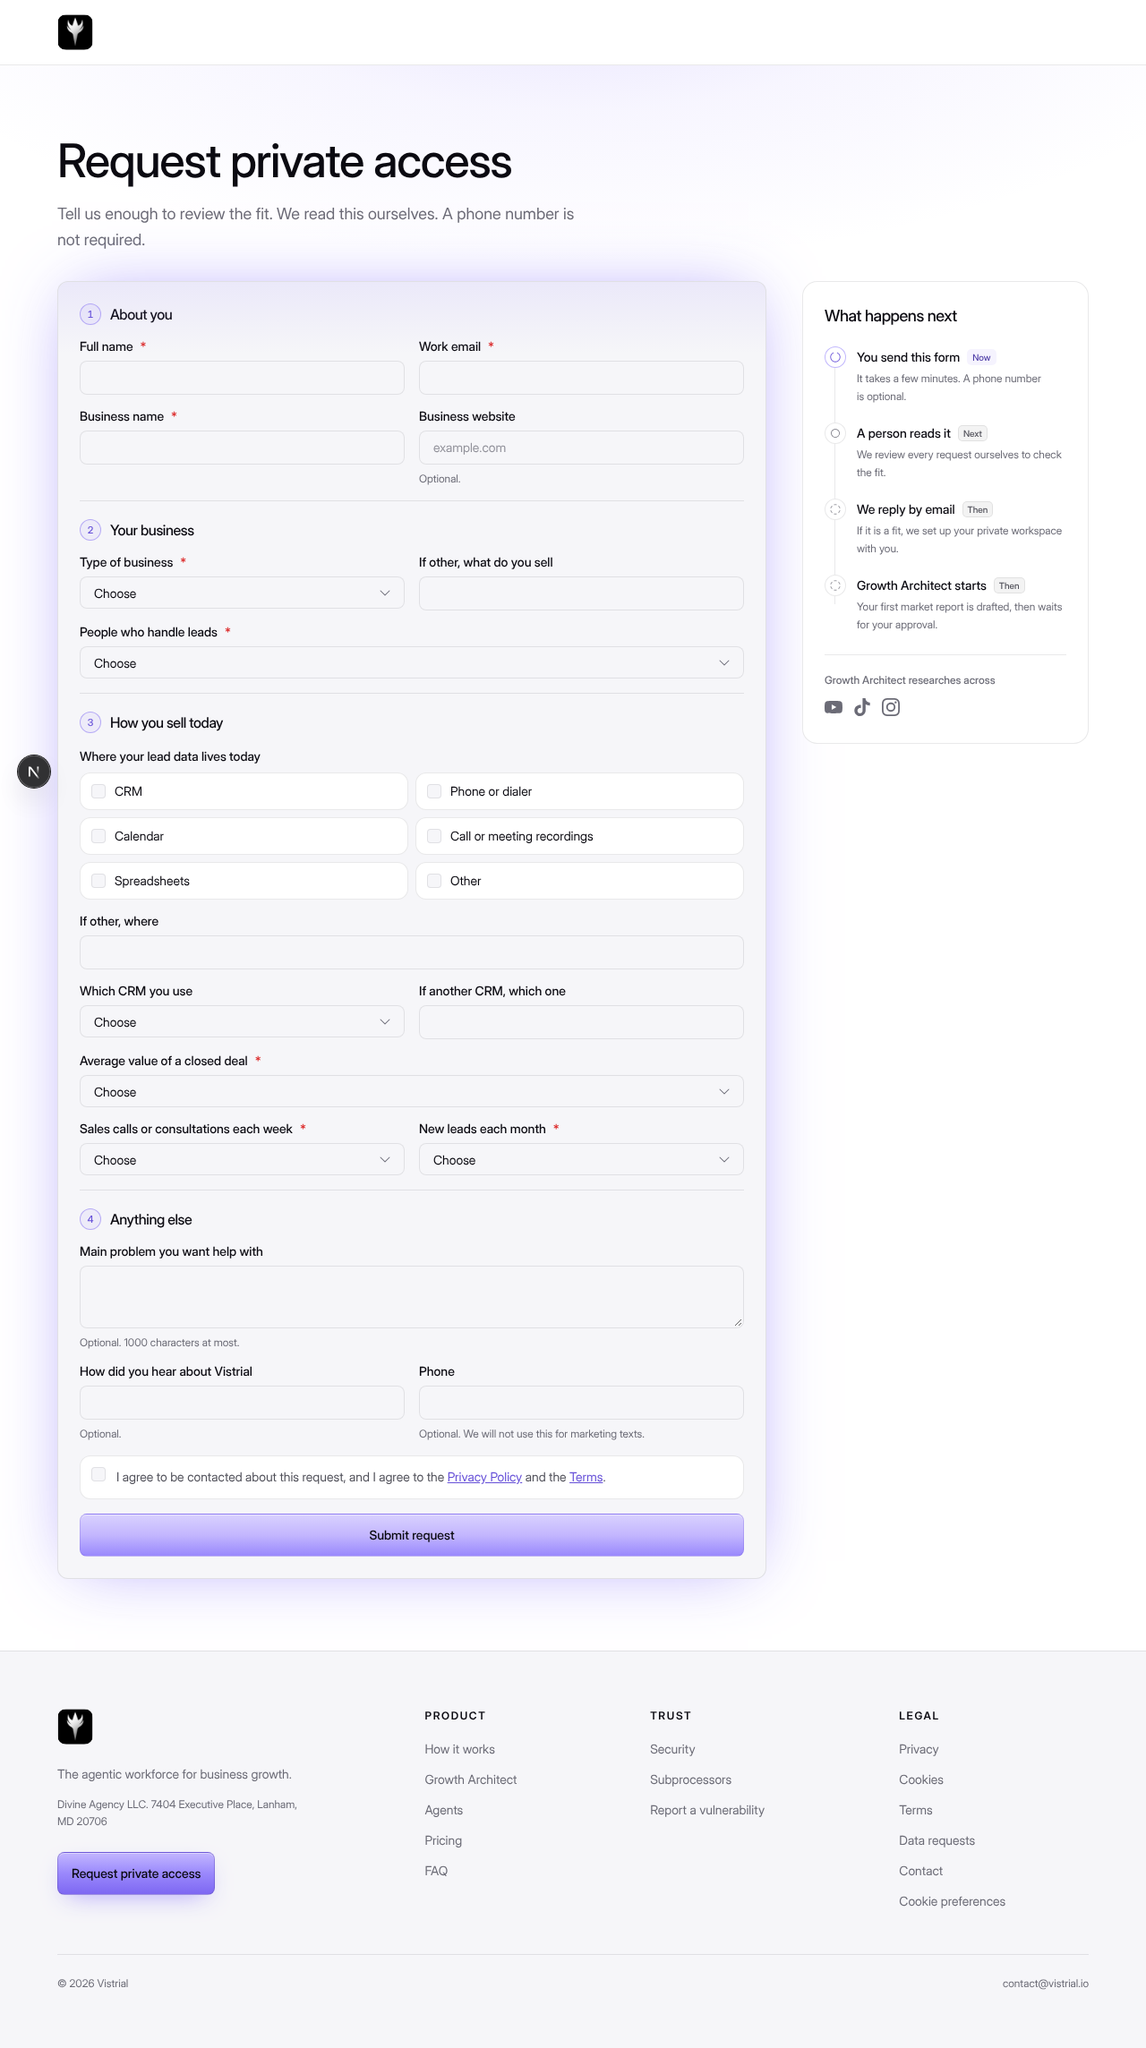
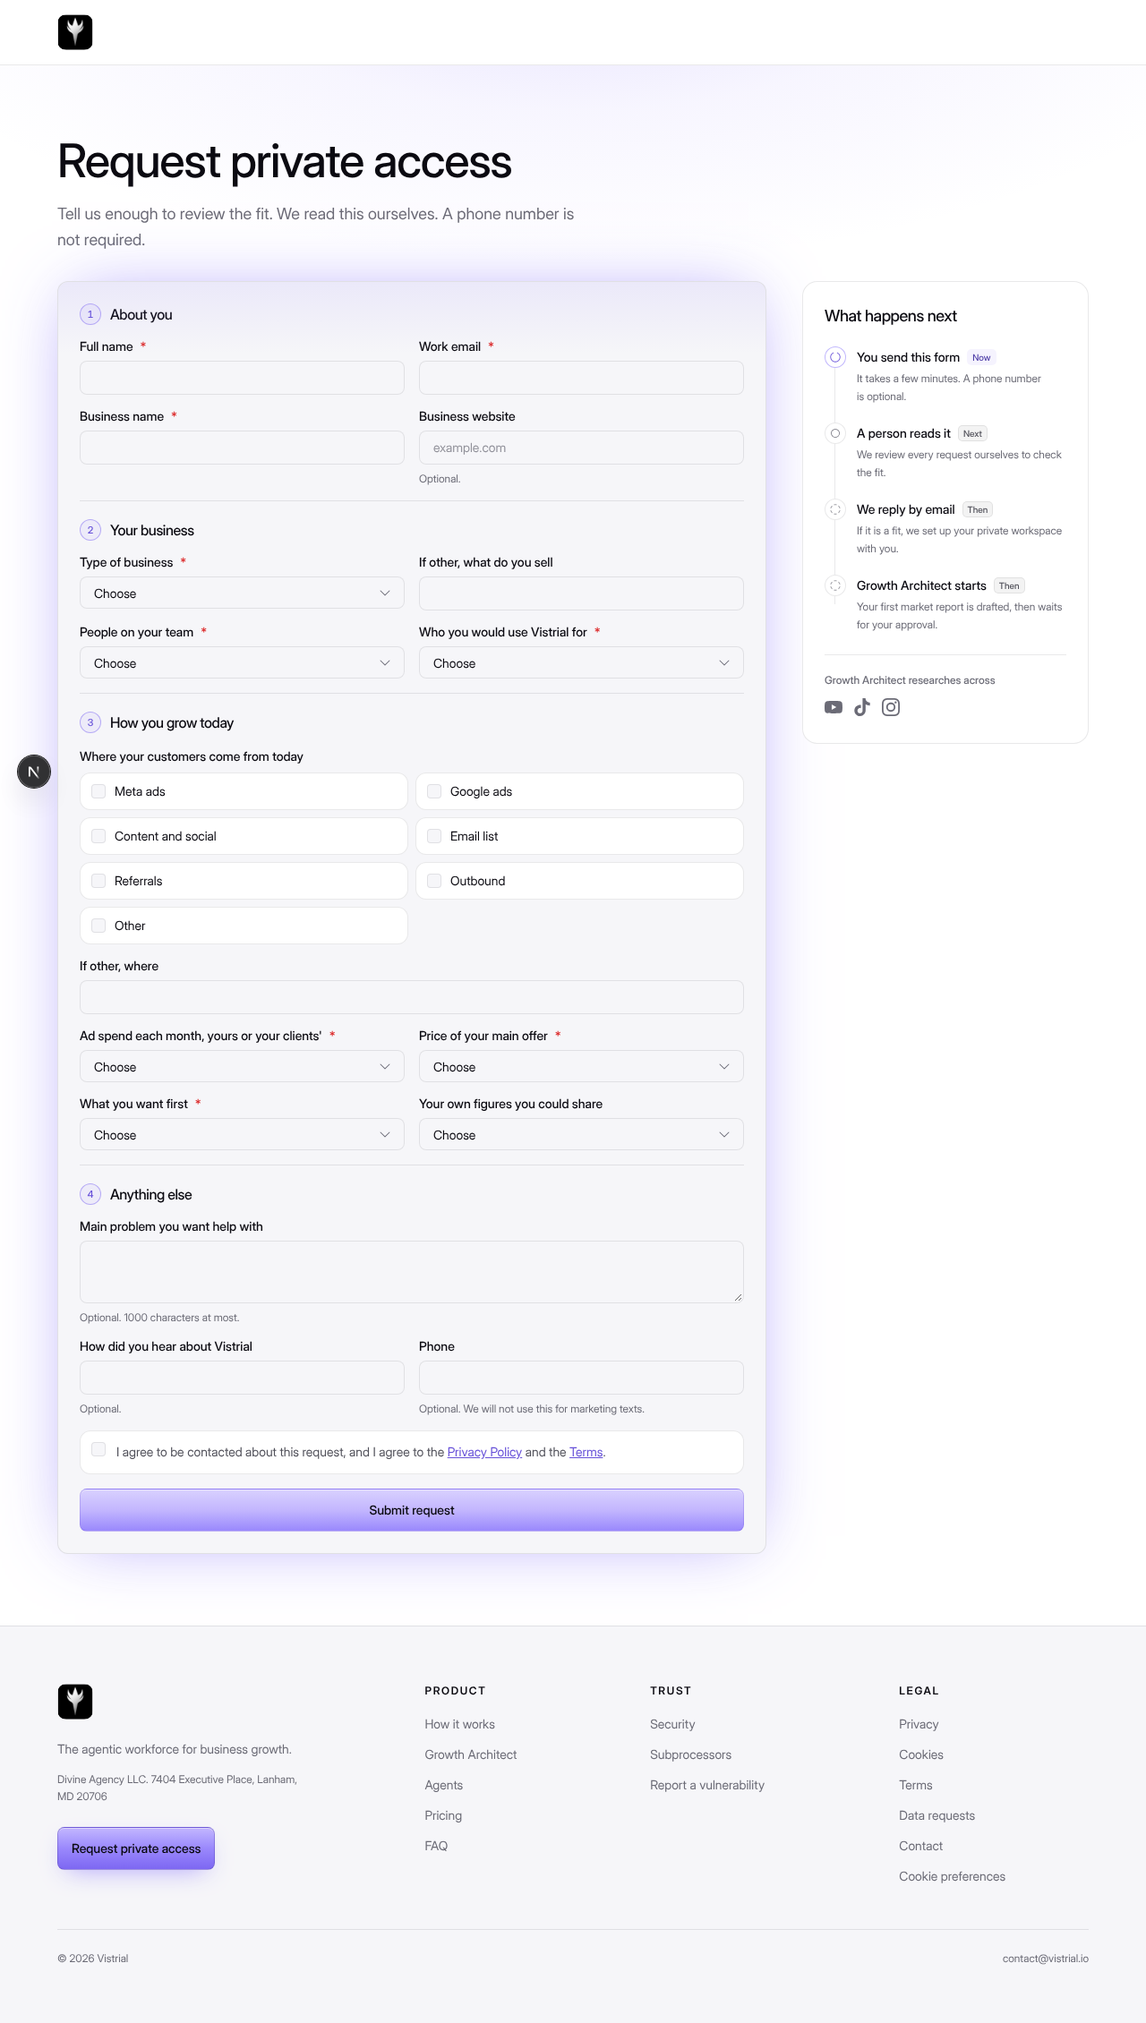
Request form: questions for agencies, consultants, coaches and info sellers
The form still asked the earlier product's questions (who handles leads, which
CRM, where lead data lives, sales calls per week, new leads per month). It now
asks who the team would use Vistrial for, where customers come from, monthly
ad spend, the price of the main offer, what they want first, and which of
their own figures they could share.

How the form submits is unchanged: answers are still stored as labeled rows.
The screenshots drop the dark theme, because the public site is white only.

Claude-Session: https://claude.ai/code/session_01BiDhVPaiBjYScjpMtVjuf9

diff --git a/src/lib/access-requests/options.ts b/src/lib/access-requests/options.ts
@@ -15,42 +15,55 @@ export const TEAM_SIZES = [
   { value: "16_plus", label: "More than 15" },
 ] as const;
 
-export const LEAD_SOURCES = [
-  { value: "crm", label: "CRM" },
-  { value: "phone", label: "Phone or dialer" },
-  { value: "calendar", label: "Calendar" },
-  { value: "recordings", label: "Call or meeting recordings" },
-  { value: "spreadsheets", label: "Spreadsheets" },
+/** How many client businesses the team does this work for. An agency answers with its client count. */
+export const CLIENT_COUNTS = [
+  { value: "own", label: "Only my own business" },
+  { value: "1_5", label: "1 to 5 clients" },
+  { value: "6_20", label: "6 to 20 clients" },
+  { value: "21_plus", label: "More than 20 clients" },
+] as const;
+
+export const CHANNELS = [
+  { value: "meta_ads", label: "Meta ads" },
+  { value: "google_ads", label: "Google ads" },
+  { value: "content", label: "Content and social" },
+  { value: "email", label: "Email list" },
+  { value: "referrals", label: "Referrals" },
+  { value: "outbound", label: "Outbound" },
   { value: "other", label: "Other" },
 ] as const;
 
-export const CRMS = [
-  { value: "gohighlevel", label: "GoHighLevel" },
-  { value: "hubspot", label: "HubSpot (coming)" },
-  { value: "salesforce", label: "Salesforce (coming)" },
-  { value: "other", label: "Other" },
-  { value: "none", label: "None" },
+export const AD_SPEND = [
+  { value: "none", label: "None yet" },
+  { value: "under_1000", label: "Under $1,000" },
+  { value: "1000_5000", label: "$1,000 to $5,000" },
+  { value: "5000_20000", label: "$5,000 to $20,000" },
+  { value: "above_20000", label: "Above $20,000" },
 ] as const;
 
-export const DEAL_VALUES = [
+export const OFFER_PRICES = [
   { value: "under_1000", label: "Under $1,000" },
   { value: "1000_2500", label: "$1,000 to $2,500" },
   { value: "2500_10000", label: "$2,500 to $10,000" },
   { value: "above_10000", label: "Above $10,000" },
 ] as const;
 
-export const CALLS_PER_WEEK = [
-  { value: "under_5", label: "Fewer than 5" },
-  { value: "5_20", label: "5 to 20" },
-  { value: "21_50", label: "21 to 50" },
-  { value: "above_50", label: "More than 50" },
+/** One per Growth Architect skill that is available today, in the reader's words. */
+export const FIRST_WANTS = [
+  { value: "market_research", label: "Research on my market and competitors" },
+  { value: "offer_analysis", label: "My offer set beside competitors'" },
+  { value: "growth_diagnosis", label: "Where my growth stalls" },
+  { value: "ad_creative", label: "Ad copy and creative to test" },
+  { value: "page_teardown", label: "A teardown of my landing page" },
+  { value: "not_sure", label: "Not sure yet" },
 ] as const;
 
-export const LEADS_PER_MONTH = [
-  { value: "under_20", label: "Fewer than 20" },
-  { value: "20_100", label: "20 to 100" },
-  { value: "101_400", label: "101 to 400" },
-  { value: "above_400", label: "More than 400" },
+/** Figures the business could share so a change can be measured. Nothing is connected from this form. */
+export const FIGURES = [
+  { value: "meta", label: "A Meta ad account" },
+  { value: "file", label: "A results spreadsheet" },
+  { value: "both", label: "Both" },
+  { value: "none", label: "Neither yet" },
 ] as const;
 
 export const CUSTOM_TEAM_SIZES = [
@@ -73,20 +86,17 @@ export const CAMPAIGN_KEYS = [
 
 export type CampaignKey = (typeof CAMPAIGN_KEYS)[number];
 
-const BUSINESS = new Set<string>(BUSINESS_TYPES.map((row) => row.value));
-const TEAMS = new Set<string>([...TEAM_SIZES.map((row) => row.value), ...CUSTOM_TEAM_SIZES.map((row) => row.value)].filter(Boolean));
-const SOURCES = new Set<string>(LEAD_SOURCES.map((row) => row.value));
-const CRM = new Set<string>(CRMS.map((row) => row.value));
-const DEALS = new Set<string>(DEAL_VALUES.map((row) => row.value));
-const CALLS = new Set<string>(CALLS_PER_WEEK.map((row) => row.value));
-const LEADS = new Set<string>(LEADS_PER_MONTH.map((row) => row.value));
+const ALLOWED = {
+  business: new Set<string>(BUSINESS_TYPES.map((row) => row.value)),
+  team: new Set<string>([...TEAM_SIZES.map((row) => row.value), ...CUSTOM_TEAM_SIZES.map((row) => row.value)].filter(Boolean)),
+  clients: new Set<string>(CLIENT_COUNTS.map((row) => row.value)),
+  channel: new Set<string>(CHANNELS.map((row) => row.value)),
+  spend: new Set<string>(AD_SPEND.map((row) => row.value)),
+  price: new Set<string>(OFFER_PRICES.map((row) => row.value)),
+  want: new Set<string>(FIRST_WANTS.map((row) => row.value)),
+  figures: new Set<string>(FIGURES.map((row) => row.value)),
+} as const;
 
-export function isAllowed(value: string, kind: "business" | "team" | "source" | "crm" | "deal" | "calls" | "leads"): boolean {
-  if (kind === "business") return BUSINESS.has(value);
-  if (kind === "team") return TEAMS.has(value);
-  if (kind === "source") return SOURCES.has(value);
-  if (kind === "crm") return CRM.has(value);
-  if (kind === "deal") return DEALS.has(value);
-  if (kind === "calls") return CALLS.has(value);
-  return LEADS.has(value);
+export function isAllowed(value: string, kind: keyof typeof ALLOWED): boolean {
+  return ALLOWED[kind].has(value);
 }

diff --git a/src/lib/access-requests/validate.ts b/src/lib/access-requests/validate.ts
@@ -12,13 +12,13 @@ export type AccessSubmission = {
   businessType: string | null;
   businessTypeOther: string | null;
   teamSize: string | null;
-  leadSources: string[];
-  leadSourcesOther: string | null;
-  crm: string | null;
-  crmOther: string | null;
-  dealValue: string | null;
-  callsPerWeek: string | null;
-  leadsPerMonth: string | null;
+  clientCount: string | null;
+  channels: string[];
+  channelsOther: string | null;
+  adSpend: string | null;
+  offerPrice: string | null;
+  firstWant: string | null;
+  figures: string | null;
   problem: string | null;
   heardAbout: string | null;
   phone: string | null;
@@ -68,13 +68,14 @@ export function parseAccessForm(form: FormData, kind: RequestKind): ParseResult 
 
   const businessType = one(form, "business_type");
   const teamSize = one(form, "team_size");
-  const dealValue = one(form, "deal_value");
-  const callsPerWeek = one(form, "calls_per_week");
-  const leadsPerMonth = one(form, "leads_per_month");
-  const crm = one(form, "crm");
+  const clientCount = one(form, "client_count");
+  const adSpend = one(form, "ad_spend");
+  const offerPrice = one(form, "offer_price");
+  const firstWant = one(form, "first_want");
+  const figures = one(form, "figures");
   const problem = cleanText(one(form, "problem"), 1200);
   const need = cleanText(one(form, "need"), 1200);
-  const sources = form.getAll("lead_sources").map((value) => String(value)).filter((value) => isAllowed(value, "source"));
+  const channels = form.getAll("channels").map((value) => String(value)).filter((value) => isAllowed(value, "channel"));
 
   if (problem.length > 1000) errors.problem = FORMS.errors.long;
   if (need.length > 1000) errors.need = FORMS.errors.long;
@@ -85,11 +86,11 @@ export function parseAccessForm(form: FormData, kind: RequestKind): ParseResult 
       errors.business_type_other = FORMS.errors.required;
     }
     if (!isAllowed(teamSize, "team")) errors.team_size = FORMS.errors.required;
-    if (!isAllowed(dealValue, "deal")) errors.deal_value = FORMS.errors.required;
-    if (!isAllowed(callsPerWeek, "calls")) errors.calls_per_week = FORMS.errors.required;
-    if (!isAllowed(leadsPerMonth, "leads")) errors.leads_per_month = FORMS.errors.required;
-    if (crm && !isAllowed(crm, "crm")) errors.crm = FORMS.errors.required;
-    if (crm === "other" && !cleanText(one(form, "crm_other"), 120)) errors.crm_other = FORMS.errors.required;
+    if (!isAllowed(clientCount, "clients")) errors.client_count = FORMS.errors.required;
+    if (!isAllowed(adSpend, "spend")) errors.ad_spend = FORMS.errors.required;
+    if (!isAllowed(offerPrice, "price")) errors.offer_price = FORMS.errors.required;
+    if (!isAllowed(firstWant, "want")) errors.first_want = FORMS.errors.required;
+    if (figures && !isAllowed(figures, "figures")) errors.figures = FORMS.errors.required;
   } else if (!need) {
     errors.need = FORMS.errors.required;
   }
@@ -125,13 +126,13 @@ export function parseAccessForm(form: FormData, kind: RequestKind): ParseResult 
       businessType: kind === "private_access" ? businessType : null,
       businessTypeOther: cleanText(one(form, "business_type_other"), 120) || null,
       teamSize: teamSize || null,
-      leadSources: sources.slice(0, 12),
-      leadSourcesOther: cleanText(one(form, "lead_sources_other"), 120) || null,
-      crm: crm || null,
-      crmOther: cleanText(one(form, "crm_other"), 120) || null,
-      dealValue: dealValue || null,
-      callsPerWeek: callsPerWeek || null,
-      leadsPerMonth: leadsPerMonth || null,
+      clientCount: clientCount || null,
+      channels: channels.slice(0, 12),
+      channelsOther: cleanText(one(form, "channels_other"), 120) || null,
+      adSpend: adSpend || null,
+      offerPrice: offerPrice || null,
+      firstWant: firstWant || null,
+      figures: figures || null,
       problem: problem ? problem.slice(0, 1000) : null,
       heardAbout: cleanText(one(form, "heard_about"), 160) || null,
       phone: phone || null,
@@ -153,13 +154,13 @@ export function submissionPayload(value: AccessSubmission): Record<string, unkno
     businessType: value.businessType,
     businessTypeOther: value.businessTypeOther,
     teamSize: value.teamSize,
-    leadSources: value.leadSources,
-    leadSourcesOther: value.leadSourcesOther,
-    crm: value.crm,
-    crmOther: value.crmOther,
-    dealValue: value.dealValue,
-    callsPerWeek: value.callsPerWeek,
-    leadsPerMonth: value.leadsPerMonth,
+    clientCount: value.clientCount,
+    channels: value.channels,
+    channelsOther: value.channelsOther,
+    adSpend: value.adSpend,
+    offerPrice: value.offerPrice,
+    firstWant: value.firstWant,
+    figures: value.figures,
     problem: value.problem,
     heardAbout: value.heardAbout,
     phone: value.phone,

diff --git a/src/components/marketing/access-form.tsx b/src/components/marketing/access-form.tsx
@@ -19,12 +19,13 @@ import { Field } from "@/components/ui/field";
 import { Input } from "@/components/ui/input";
 import {
   BUSINESS_TYPES,
-  CALLS_PER_WEEK,
-  CRMS,
+  AD_SPEND,
+  CHANNELS,
+  CLIENT_COUNTS,
   CUSTOM_TEAM_SIZES,
-  DEAL_VALUES,
-  LEAD_SOURCES,
-  LEADS_PER_MONTH,
+  FIGURES,
+  FIRST_WANTS,
+  OFFER_PRICES,
   TEAM_SIZES,
 } from "@/lib/access-requests/options";
 import { trackMarketingEvent } from "@/components/marketing/track";
@@ -182,35 +183,34 @@ export function AccessRequestForm({ kind }: { kind: "private_access" | "custom" 
                   <FieldMessage message={error?.business_type_other} />
                 </Field>
               </FieldPair>
-              <Choice name="team_size" label="People who handle leads" options={TEAM_SIZES} required error={error?.team_size} />
+              <FieldPair>
+                <Choice name="team_size" label="People on your team" options={TEAM_SIZES} required error={error?.team_size} />
+                <Choice name="client_count" label="Who you would use Vistrial for" options={CLIENT_COUNTS} required error={error?.client_count} />
+              </FieldPair>
             </FormSection>
 
             <FormSection step={3} title={FORMS.sections.selling}>
               <fieldset>
-                <legend className="text-sm font-medium text-card-foreground">Where your lead data lives today</legend>
+                <legend className="text-sm font-medium text-card-foreground">Where your customers come from today</legend>
                 <div className="mt-2 grid gap-2 sm:grid-cols-2">
-                  {LEAD_SOURCES.map((source) => (
-                    <label key={source.value} className={publicChipClass}>
-                      <input type="checkbox" name="lead_sources" value={source.value} className={cn(checkboxClass, publicCheckClass)} />
-                      {source.label}
+                  {CHANNELS.map((channel) => (
+                    <label key={channel.value} className={publicChipClass}>
+                      <input type="checkbox" name="channels" value={channel.value} className={cn(checkboxClass, publicCheckClass)} />
+                      {channel.label}
                     </label>
                   ))}
                 </div>
               </fieldset>
-              <Field label="If other, where" name="lead_sources_other" htmlFor="lead_sources_other">
-                <Input className={publicFieldClass} id="lead_sources_other" name="lead_sources_other" type="text" maxLength={120} />
+              <Field label="If other, where" name="channels_other" htmlFor="channels_other">
+                <Input className={publicFieldClass} id="channels_other" name="channels_other" type="text" maxLength={120} />
               </Field>
               <FieldPair>
-                <Choice name="crm" label="Which CRM you use" options={CRMS} error={error?.crm} />
-                <Field label="If another CRM, which one" name="crm_other" htmlFor="crm_other">
-                  <Input className={publicFieldClass} id="crm_other" name="crm_other" type="text" maxLength={120} aria-invalid={error?.crm_other ? true : undefined} />
-                  <FieldMessage message={error?.crm_other} />
-                </Field>
+                <Choice name="ad_spend" label="Ad spend each month, yours or your clients'" options={AD_SPEND} required error={error?.ad_spend} />
+                <Choice name="offer_price" label="Price of your main offer" options={OFFER_PRICES} required error={error?.offer_price} />
               </FieldPair>
-              <Choice name="deal_value" label="Average value of a closed deal" options={DEAL_VALUES} required error={error?.deal_value} />
               <FieldPair>
-                <Choice name="calls_per_week" label="Sales calls or consultations each week" options={CALLS_PER_WEEK} required error={error?.calls_per_week} />
-                <Choice name="leads_per_month" label="New leads each month" options={LEADS_PER_MONTH} required error={error?.leads_per_month} />
+                <Choice name="first_want" label="What you want first" options={FIRST_WANTS} required error={error?.first_want} />
+                <Choice name="figures" label="Your own figures you could share" options={FIGURES} error={error?.figures} />
               </FieldPair>
             </FormSection>
 

diff --git a/src/lib/access-requests/validate.test.ts b/src/lib/access-requests/validate.test.ts
@@ -1,0 +1,65 @@
+import { describe, expect, it } from "vitest";
+
+import * as options from "@/lib/access-requests/options";
+import { submissionFields } from "@/lib/access-requests/summary";
+import { parseAccessForm } from "@/lib/access-requests/validate";
+
+function form(entries: Record<string, string | string[]>) {
+  const data = new FormData();
+  for (const [key, value] of Object.entries(entries)) {
+    for (const item of Array.isArray(value) ? value : [value]) data.append(key, item);
+  }
+  return data;
+}
+
+const COMPLETE = {
+  full_name: "Sam Rivera",
+  email: "sam@northlight.example",
+  business_name: "Northlight Growth",
+  consent: "yes",
+  business_type: "agency",
+  team_size: "2_5",
+  client_count: "6_20",
+  channels: ["meta_ads", "referrals"],
+  ad_spend: "5000_20000",
+  offer_price: "2500_10000",
+  first_want: "offer_analysis",
+  figures: "meta",
+};
+
+describe("the private access request form", () => {
+  it("accepts a complete request and labels every answer for the team", () => {
+    const parsed = parseAccessForm(form(COMPLETE), "private_access");
+    expect(parsed.ok).toBe(true);
+    if (!parsed.ok) return;
+    const fields = Object.fromEntries(submissionFields(parsed.value).map((row) => [row.label, row.value]));
+    expect(fields).toMatchObject({
+      "Business type": "Agency",
+      "Team size": "2 to 5",
+      "Works for": "6 to 20 clients",
+      "Where customers come from": "Meta ads, Referrals",
+      "Monthly ad spend": "$5,000 to $20,000",
+      "Price of main offer": "$2,500 to $10,000",
+      "Wants first": "My offer set beside competitors'",
+      "Figures they could share": "A Meta ad account",
+    });
+  });
+
+  it("asks for the answers the team needs to review the fit", () => {
+    const parsed = parseAccessForm(form({ full_name: "Sam Rivera", email: "sam@northlight.example", business_name: "Northlight Growth", consent: "yes" }), "private_access");
+    expect(parsed.ok).toBe(false);
+    if (parsed.ok) return;
+    expect(Object.keys(parsed.errors).sort()).toEqual(["ad_spend", "business_type", "client_count", "first_want", "offer_price", "team_size"]);
+  });
+
+  it("drops a channel that is not on the form", () => {
+    const parsed = parseAccessForm(form({ ...COMPLETE, channels: ["meta_ads", "crm"] }), "private_access");
+    expect(parsed.ok && parsed.value.channels).toEqual(["meta_ads"]);
+  });
+
+  it("no longer asks the earlier product's questions", () => {
+    const lists = Object.values(options).filter((entry): entry is never => Array.isArray(entry)) as unknown as unknown[][];
+    const labels = lists.flatMap((list) => list.map((row) => (typeof row === "string" ? row : (row as { label: string }).label))).join("\n");
+    expect(labels).not.toMatch(/CRM|GoHighLevel|HubSpot|Salesforce|dialer|recordings|lead/i);
+  });
+});

diff --git a/src/lib/access-requests/summary.ts b/src/lib/access-requests/summary.ts
@@ -1,11 +1,12 @@
 import {
   BUSINESS_TYPES,
-  CALLS_PER_WEEK,
-  CRMS,
+  AD_SPEND,
+  CHANNELS,
+  CLIENT_COUNTS,
   CUSTOM_TEAM_SIZES,
-  DEAL_VALUES,
-  LEAD_SOURCES,
-  LEADS_PER_MONTH,
+  FIGURES,
+  FIRST_WANTS,
+  OFFER_PRICES,
   TEAM_SIZES,
 } from "@/lib/access-requests/options";
 import type { AccessSubmission } from "@/lib/access-requests/validate";
@@ -33,16 +34,12 @@ export function submissionFields(value: AccessSubmission): { label: string; valu
           ["Website", value.website ?? ""],
           ["Business type", withOther(labelOf(BUSINESS_TYPES, value.businessType), value.businessTypeOther)],
           ["Team size", labelOf(TEAM_SIZES, value.teamSize)],
-          [
-            "Where leads live",
-            value.leadSources
-              .map((item) => withOther(labelOf(LEAD_SOURCES, item), value.leadSourcesOther))
-              .join(", "),
-          ],
-          ["CRM", withOther(labelOf(CRMS, value.crm), value.crmOther)],
-          ["Typical deal value", labelOf(DEAL_VALUES, value.dealValue)],
-          ["Sales calls per week", labelOf(CALLS_PER_WEEK, value.callsPerWeek)],
-          ["New leads per month", labelOf(LEADS_PER_MONTH, value.leadsPerMonth)],
+          ["Works for", labelOf(CLIENT_COUNTS, value.clientCount)],
+          ["Where customers come from", value.channels.map((item) => withOther(labelOf(CHANNELS, item), value.channelsOther)).join(", ")],
+          ["Monthly ad spend", labelOf(AD_SPEND, value.adSpend)],
+          ["Price of main offer", labelOf(OFFER_PRICES, value.offerPrice)],
+          ["Wants first", labelOf(FIRST_WANTS, value.firstWant)],
+          ["Figures they could share", labelOf(FIGURES, value.figures)],
           ["Main problem", value.problem ?? ""],
           ["Heard about us", value.heardAbout ?? ""],
           ["Campaign", campaign],

diff --git a/src/lib/marketing/content.ts b/src/lib/marketing/content.ts
@@ -491,7 +491,7 @@ export const FORMS = {
   sections: {
     you: "About you",
     business: "Your business",
-    selling: "How you sell today",
+    selling: "How you grow today",
     more: "Anything else",
     need: "What you need",
   },
